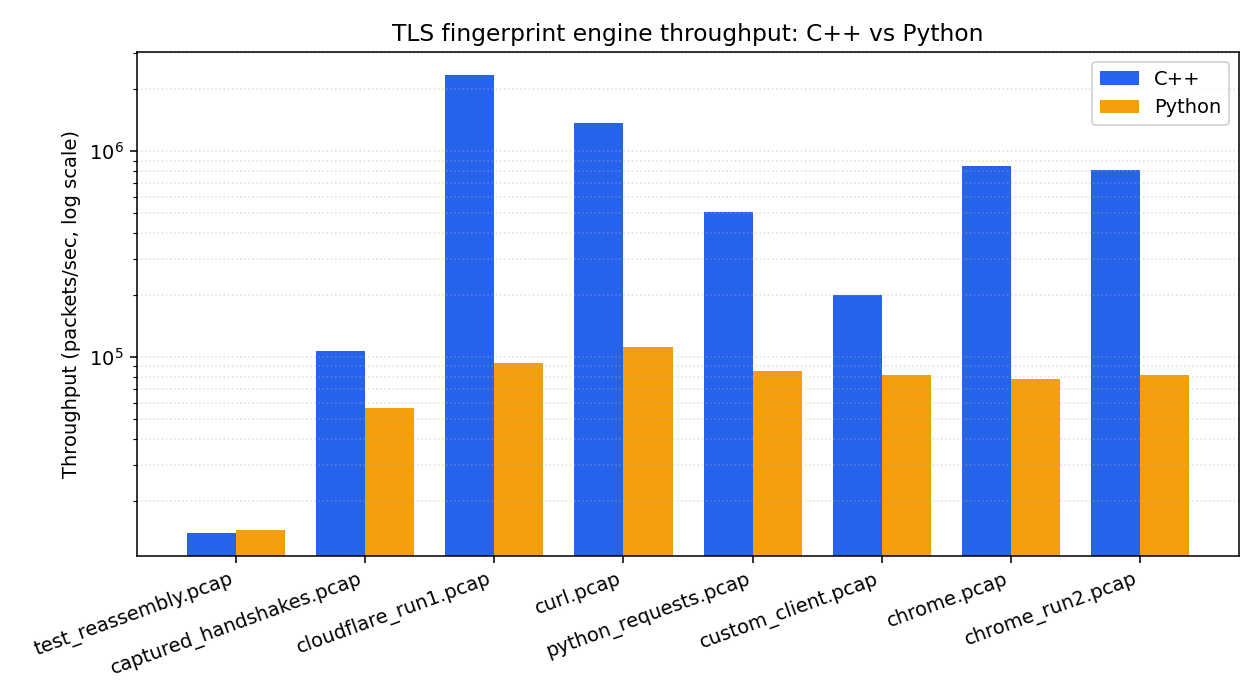
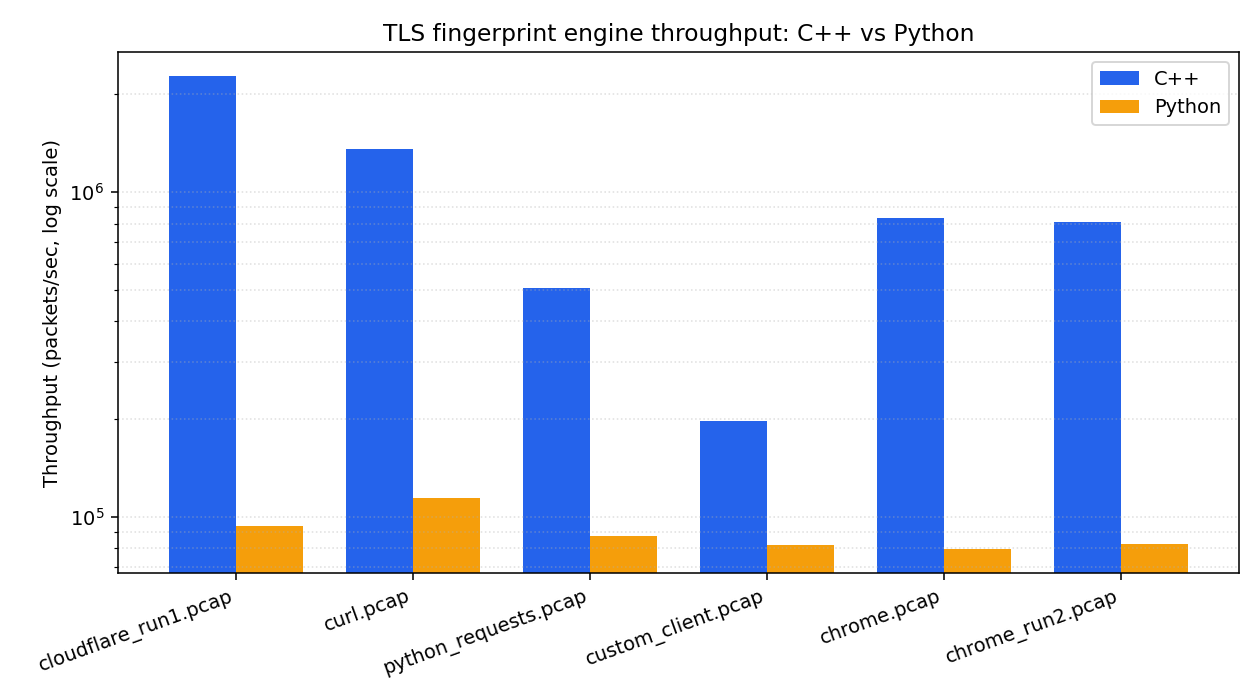
Update benchmark dataset and results

diff --git a/code/benchmarks/benchmark_python.py b/code/benchmarks/benchmark_python.py
@@ -32,8 +32,6 @@ from src.ja4 import compute_ja4_string, compute_ja4s_string
 
 # Keep this list identical to benchmark_cpp.py's PCAPS for a fair comparison.
 PCAPS = [
-    "test_reassembly.pcap",
-    "captured_handshakes.pcap",
     "cloudflare_run1.pcap",
     "curl.pcap",
     "python_requests.pcap",

diff --git a/code/benchmarks/benchmark_cpp.py b/code/benchmarks/benchmark_cpp.py
@@ -14,8 +14,6 @@ RESULTS = ROOT / "code" / "benchmarks" / "results" / "cpp_results.csv"
 
 
 PCAPS = [
-    "test_reassembly.pcap",
-    "captured_handshakes.pcap",
     "cloudflare_run1.pcap",
     "curl.pcap",
     "python_requests.pcap",
